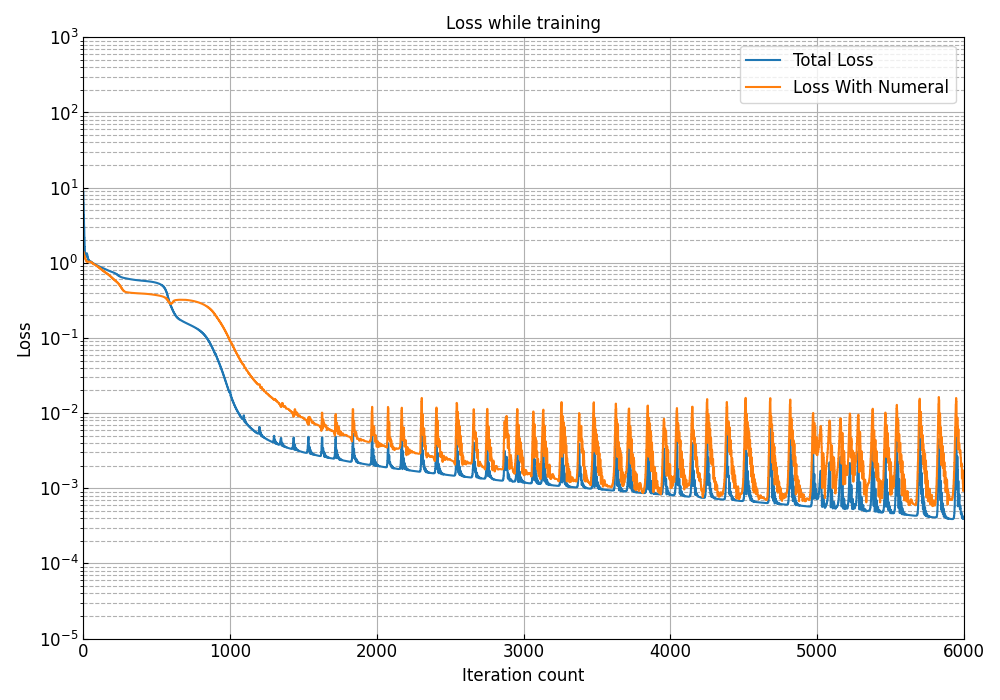
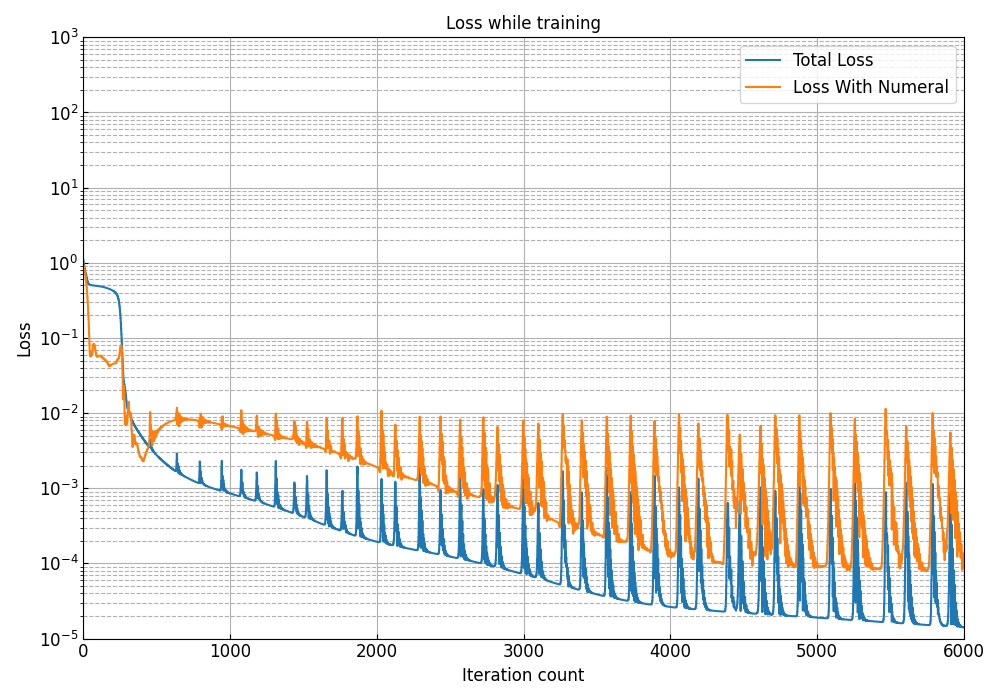
study_update

Changed region(s): [[0.124, 0.42, 0.961, 0.9], [0.062, 0.36, 0.155, 0.42], [0.062, 0.48, 0.124, 0.54]]

diff --git a/src/Neural_network(PINN).py b/src/Neural_network(PINN).py
@@ -118,7 +118,8 @@ def train(model, p, num_data):
                                 (lambd, step, current_loss))
     pbar.clear()
     torch.save(PINN.state_dict(), r'./weights/weights_PINN_Duffing_equation.pth')
-    print(gamma, delta, alpha, beta, f"{par}pi",loss_all[-1], loss_all_num[-1])
+    with open("./figs/stat_analit.txt", "a") as file:
+        file.write(f"{gamma}, {delta}, {alpha}, {beta}, {par}pi, {loss_all[-1]}, {loss_all_num[-1]} \n")
 
 
 # initialize draw functions
@@ -163,8 +164,8 @@ def draw_history(net, t):
 if __name__ == "__main__":
     gamma = 1
     delta = 6.6
-    alpha = 7
-    beta = 5
+    alpha = 1                 # <-- Параметры уравнения
+    beta = 1
     par = 1.25
     omega = torch.pi*par
     p = (gamma, delta, alpha, beta, omega)
